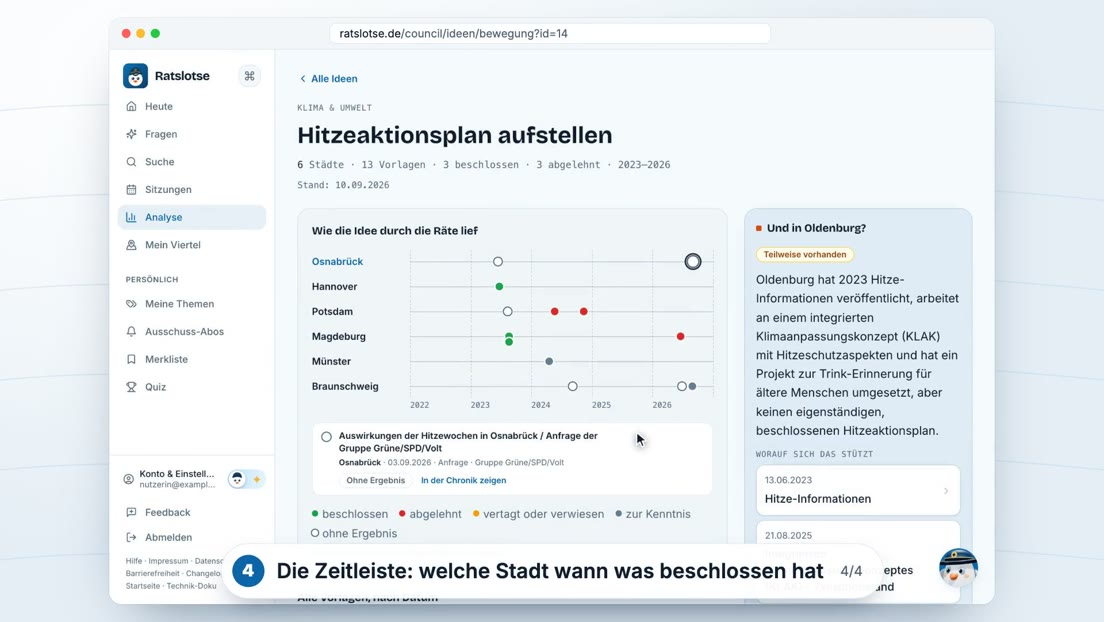
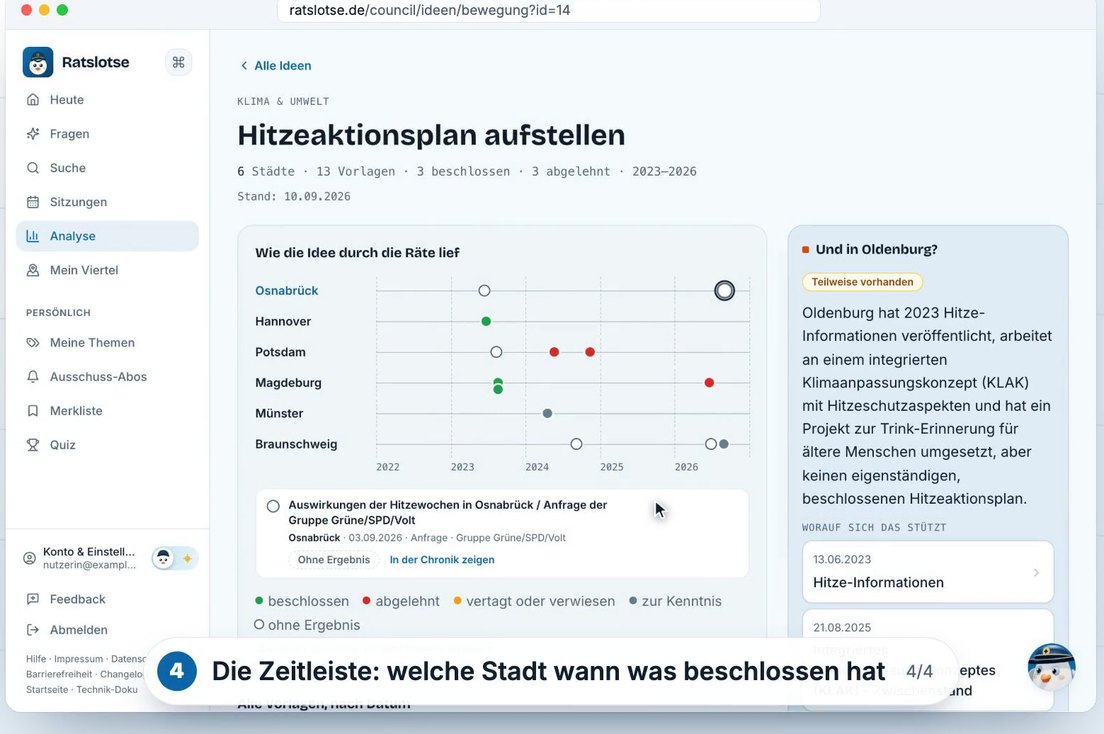
Neu bei Ratslotse: per Mail an alle, mit Abmeldelink; Mailbilder aufs Browserfenster zugeschnitten (#1792)

diff --git a/web/frontend/components/delivery-settings.tsx b/web/frontend/components/delivery-settings.tsx
@@ -8,6 +8,10 @@ import { useAuth } from "@/lib/auth";
 import { Button, Card, Switch, toast } from "@/components/ui";
 import type { DeliveryChannel, User } from "@/lib/types";
 
+/** Anlässe, die per Mail auch ohne gewählten Kanal kommen — Spiegel von
+ *  `kern.notify.IMMER_PER_MAIL`. */
+const IMMER_PER_MAIL = ["n7_news"];
+
 /** Ein Anlass aus 30a/B — was das Backend über sich selbst erzählt.
  *  `parent`: Unter-Option, die nur wirkt, solange der Eltern-Anlass an ist —
  *  sie wird eingerückt und ist ohne Elternteil nicht bedienbar. */
@@ -174,9 +178,9 @@ export function DeliverySettings() {
           Hälfte dieser Auskunft, der Zusatz an der Überschrift die hörbare.
           Wer den Block ausblendet, nimmt Screenreader-Nutzenden beides. */}
       {prefsQuery.data && (
-        <div className={`mt-6 border-t border-border pt-5 ${alleAus ? "opacity-45" : ""}`}>
-          <p className="text-[11px] font-bold uppercase tracking-wider text-muted-foreground">
-            Wofür {alleAus && <span className="font-medium normal-case tracking-normal">— erst wieder, wenn ein Kanal an ist</span>}
+        <div className="mt-6 border-t border-border pt-5">
+          <p className={`text-[11px] font-bold uppercase tracking-wider text-muted-foreground ${alleAus ? "opacity-45" : ""}`}>
+            Wofür {alleAus && <span className="font-medium normal-case tracking-normal">— erst wieder, wenn ein Kanal an ist (bis auf „Neu bei Ratslotse“)</span>}
           </p>
           <div className="mt-3 space-y-3">
             {prefsQuery.data.kinds.map((k) => {
@@ -185,13 +189,19 @@ export function DeliverySettings() {
               // das Backend würde sie ohnehin nicht zustellen.
               const elternAn = !k.parent
                 || (prefsQuery.data?.kinds.find((p) => p.key === k.parent)?.enabled ?? true);
+              // Die Release-Ankündigung kommt per Mail auch ohne Kanal
+              // (kern/notify.py: IMMER_PER_MAIL) — ihr Schalter muss deshalb
+              // bedienbar bleiben, sonst gäbe es für genau diese Konten keinen
+              // Weg, sie abzubestellen. Die Fußzeile der Mail führt hierher.
+              const ohneKanal = IMMER_PER_MAIL.includes(k.key);
+              const wirkungslos = (alleAus && !ohneKanal) || !elternAn;
               return (
                 <div
                   key={k.key}
                   id={`anlass-${k.key}`}
                   className={`flex items-center justify-between gap-3 scroll-mt-24 rounded-lg transition-shadow ${
                     k.parent ? "ml-3 border-l-2 border-border pl-3" : ""
-                  } ${!elternAn ? "opacity-45" : ""} ${
+                  } ${wirkungslos ? "opacity-45" : ""} ${
                     flashZiel === k.key ? "ring-2 ring-primary bg-primary/[0.07]" : ""
                   }`}
                 >
@@ -202,7 +212,7 @@ export function DeliverySettings() {
                   <Switch
                     checked={k.enabled}
                     aria-label={k.label}
-                    disabled={alleAus || !elternAn || kindMutation.isPending}
+                    disabled={wirkungslos || kindMutation.isPending}
                     onCheckedChange={(v) => toggleKind(k.key, v)}
                   />
                 </div>

diff --git a/web/frontend/app/datenschutz/page.tsx b/web/frontend/app/datenschutz/page.tsx
@@ -86,7 +86,7 @@ export default function DatenschutzPage() {
             <ul className="list-disc space-y-1 pl-5">
               <li><strong>Hosting:</strong> Hetzner Online GmbH (Serverstandort EU). Betrieb der Server und Verarbeitung von Server-Logs.</li>
               <li><strong>KI-Verarbeitung (OpenRouter):</strong> „Frag den Rat"-Anfragen und Fragen an Lotti werden zur Beantwortung über den Vermittler OpenRouter (USA) an KI-Sprachmodelle übermittelt, die <strong>ausschließlich in Rechenzentren in der EU</strong> laufen, jeweils mit der Zusage, Anfragen nicht zu speichern („Zero Data Retention"). Die Antworten und die vorbereitende Auswertung deiner Frage (Suchbegriffe) erzeugen Modelle von OpenAI bei Microsoft Azure in der EU. Zur Qualitätssicherung prüft ein Modell von Anthropic bei Google Cloud bzw. Amazon Web Services in der EU außerdem eine zufällige Stichprobe von Lottis Antworten nachträglich — dafür gehen Frage, Antwort und der Seitenausschnitt noch einmal über OpenRouter. Dasselbe gilt für die Beschreibung, die Lotti zu einem neu angelegten Thema vorschlägt, und für die Prüfung, ob ein Thema zu allgemein ist. An Anbieter außerhalb der EU gehen diese Anfragen nicht; sollte das bei einer längeren Störung vorübergehend nötig werden, steht es hier. Ausgeschlossen sind in jedem Fall Anbieter, die Anfragen zum Training verwenden, und Anbieter mit Sitz in China. Gespeichert wird bei uns das Urteil mit der Seite, auf der gefragt wurde; Frage und Antwort samt Konto-Zuordnung nur, wenn du das Speichern deiner Gespräche erlaubt hast, und sie werden mit deinem Konto gelöscht. <strong>Bitte gib keine personenbezogenen oder sensiblen Daten in die Fragen ein.</strong></li>
-              <li><strong>Resend:</strong> Versand von Benachrichtigungs-E-Mails (nur, wenn du E-Mail als Kanal wählst).</li>
+              <li><strong>Resend:</strong> Versand von Benachrichtigungs-E-Mails (wenn du E-Mail als Kanal wählst) und der seltenen Ankündigung „Neu bei Ratslotse“, die auch ohne gewählten Kanal per Mail kommt und sich in den Einstellungen einzeln abschalten lässt.</li>
               <li><strong>CARTO:</strong> Die Kartendarstellung lädt Kartenkacheln von CARTO; dabei wird deine IP-Adresse an CARTO übermittelt.</li>
               <li><strong>Apple / Google (Push):</strong> App-Benachrichtigungen werden über den Push-Dienst des Betriebssystems (APNs bzw. FCM) zugestellt — nur, wenn du Push als Kanal aktivierst.</li>
               <li><strong>Apple (Sign in with Apple):</strong> Nutzt du die Anmeldung mit Apple, wickelt Apple den Anmeldevorgang ab (Apple Distribution International Ltd., Irland); wir erhalten dabei nur die oben genannte Kennung und E-Mail-Adresse. Rechtsgrundlage ist die Vertragserfüllung (Art. 6 Abs. 1 lit. b DSGVO).</li>

diff --git a/kern/notify.py b/kern/notify.py
@@ -156,7 +156,8 @@ NOTIFY_LABELS: dict[str, tuple[str, str]] = {
     N6_WOCHE: ("Wochenüberblick",
                "Sonntag 18 Uhr, alles in einer Nachricht"),
     N7_NEWS: ("Neu bei Ratslotse",
-              "Was eine neue Version bringt — ein paar Mal im Jahr"),
+              "Was eine neue Version bringt — ein paar Mal im Jahr, per Mail auch dann, "
+              "wenn die übrigen Benachrichtigungen aus sind"),
 }
 
 
@@ -170,8 +171,24 @@ NOTIFY_PARENT: dict[str, str] = {
 
 
 #: Zustellweg „gar nicht". Wer das wählt, hört von Ratslotse nichts mehr —
-#: keine Meldung, kein Bündel, keine Erinnerung.
+#: keine Meldung, kein Bündel, keine Erinnerung. Ausnahme: die Release-
+#: Ankündigung (``IMMER_PER_MAIL``).
 KANAL_AUS = "off"
+
+#: Anlässe, die per Mail kommen, egal welchen Zustellweg das Konto gewählt hat
+#: — abschaltbar nur einzeln (der Schalter bleibt in den Einstellungen dafür
+#: bedienbar). Tims Entscheidung 08.11.2026: Die Ankündigung einer neuen
+#: Version kommt ein paar Mal im Jahr, und genau die, die sonst nichts
+#: bekommen, sollen von ihr hören. Ihre Fußzeile sagt das und verlinkt den
+#: Schalter (``kern.digest_email``).
+IMMER_PER_MAIL = (N7_NEWS,)
+
+
+def kanal_fuer(kanal: str | None, art: str | None) -> str | None:
+    """Der Zustellweg für diesen Anlass: bei ``IMMER_PER_MAIL`` mit Mail."""
+    if art not in IMMER_PER_MAIL:
+        return kanal
+    return {KANAL_AUS: "email", "push": "both", None: "email", "": "email"}.get(kanal, kanal)
 
 
 def zustellung_aus(store, owner_id: int) -> bool:
@@ -205,7 +222,7 @@ def gewuenscht(store, owner_id: int, art: str) -> bool:
     zählten gegen die Tagesgrenze. Wer sie später wieder anschaltet, bekäme
     dann eine Nachlieferung aus der Zeit, in der er ausdrücklich nichts wollte.
     """
-    if zustellung_aus(store, owner_id):
+    if zustellung_aus(store, owner_id) and art not in IMMER_PER_MAIL:
         return False
     prefs = store.get_notify_prefs(owner_id)
     vorgaben = vorgaben_fuer(store, owner_id)
@@ -373,11 +390,11 @@ def _zustellen_fuer(store, owner_id: int, heute: str, jetzt_iso: str) -> int:
     # werden verworfen statt dreimal vergeblich verschickt — sonst lägen sie
     # noch da, wenn jemand kurz darauf wieder einschaltet.
     if owner.get("delivery_channel") == KANAL_AUS:
-        weg = store.drop_pending_notifications(owner_id)
+        weg = store.drop_pending_notifications(owner_id, ausser=IMMER_PER_MAIL)
         if weg:
             logger.info("owner %s hat abgeschaltet — %d wartende Meldung(en) verworfen",
                         owner_id, weg)
-        return 0
+        # Was bleibt, ist nur noch Post aus IMMER_PER_MAIL — die geht weiter.
     # Reservieren statt bloß lesen: Ein zweiter, gleichzeitiger Lauf sieht die
     # Posten dann nicht mehr und verschickt sie nicht ein zweites Mal.
     token = uuid.uuid4().hex
@@ -404,7 +421,8 @@ def _zustellen_reserviert(store, owner: dict, owner_id: int, offen: list[dict],
         **nichts** rausgegangen. Früher wurde trotzdem ``sent_at`` gesetzt — ein
         Resend-Ausfall ließ Meldungen also lautlos für immer verschwinden.
         """
-        channels = deliver_message(owner, html, email_subject=title, push_url=url,
+        empfaenger = {**owner, "delivery_channel": kanal_fuer(owner.get("delivery_channel"), anlass)}
+        channels = deliver_message(empfaenger, html, email_subject=title, push_url=url,
                                   push_text=push_text, anlass=anlass, store=store)
         if not channels:
             store.bump_notification_attempts(posten_ids)

diff --git a/tests/test_releases.py b/tests/test_releases.py
@@ -16,7 +16,7 @@ from __future__ import annotations
 
 import re
 import sys
-from datetime import date, timedelta
+from datetime import UTC, date, datetime, timedelta
 from pathlib import Path
 
 import pytest
@@ -24,7 +24,7 @@ import pytest
 WURZEL = Path(__file__).resolve().parents[1]
 sys.path.insert(0, str(WURZEL))
 
-from kern import news, notify, releases  # noqa: E402
+from kern import digest_email, news, notify, releases  # noqa: E402
 from kern.store import Store  # noqa: E402
 
 
@@ -604,11 +604,36 @@ def test_ein_abgeschalteter_anlass_gilt_als_erledigt(store):
     assert news.recipients(store, RELEASE) == []
 
 
-def test_wer_nichts_hoeren_will_bekommt_auch_das_nicht(store):
+def test_die_ankuendigung_kommt_auch_bei_ausgeschalteter_zustellung_per_mail(store, monkeypatch):
+    """Tims Entscheidung 08.11.2026: ein paar Mal im Jahr, an alle — auch an
+    Konten mit Zustellung „aus“ oder nur Push. Abbestellen geht einzeln
+    (vorheriger Test), die Fußzeile sagt es und verlinkt den Schalter."""
+    raus: list[tuple[str | None, str]] = []
+    monkeypatch.setattr("kern.delivery.deliver_message",
+                        lambda o, html, **_: (raus.append((o.get("delivery_channel"), html)), ["email"])[1])
+    aus = _konto(store)
+    store.set_delivery_channel(aus, notify.KANAL_AUS)
+    nur_push = _konto(store, "push@example.org")
+    store.set_delivery_channel(nur_push, "push")
+    assert news.announce(store, RELEASE)["queued"] == 2
+    notify.zustellen(store, jetzt=datetime(2026, 11, 9, 10, 0, tzinfo=UTC))
+    assert sorted(k for k, _ in raus) == ["both", "email"]
+
+
+def test_die_fusszeile_der_ankuendigung_fuehrt_zum_schalter():
+    html = digest_email.render_html_email("Neu", "<p>x</p>", anlass=notify.N7_NEWS)
+    assert "/account?zeig=n7_news" in html
+    assert "auch dann, wenn deine übrigen Benachrichtigungen aus sind" in html
+    # Andere Anlässe behalten ihre Fußzeile.
+    assert "/account?zeig=n7_news" not in digest_email.render_html_email(
+        "Tagesordnung", "<p>x</p>", anlass=notify.N1_TAGESORDNUNG)
+
+
+def test_andere_anlaesse_bleiben_bei_ausgeschalteter_zustellung_still(store):
     uid = _konto(store)
     store.set_delivery_channel(uid, notify.KANAL_AUS)
-    assert news.announce(store, RELEASE)["queued"] == 0
-    assert store.due_notifications(uid, "2999-01-01") == []
+    assert not notify.gewuenscht(store, uid, notify.N1_TAGESORDNUNG)
+    assert notify.gewuenscht(store, uid, notify.N7_NEWS)
 
 
 def test_ein_konto_juenger_als_das_release_wird_nicht_angeschrieben(store):

diff --git a/kern/digest_email.py b/kern/digest_email.py
@@ -327,7 +327,7 @@ def render_html_email(
         f"<div style='margin-top:{abstand}px;white-space:pre-wrap;font-size:15px;line-height:1.55'>"
         f"{body_html_or_text}</div>"
         "</div></div>"
-        f"{_fuss(fusszeile)}"
+        f"{_fuss(fusszeile if fusszeile is not None or anlass != 'n7_news' else _news_hinweis())}"
         "</div></div>"
     ), anlass, APP_BASE_URL)
 
@@ -349,6 +349,21 @@ def _fuss(fusszeile: str | None) -> str:
         "font-size:14px;font-weight:600'>Zu Ratslotse &rarr;</a>"
         f"{note}"
         "</div>"
+    )
+
+
+def _news_hinweis() -> str:
+    """Fußzeile der Release-Ankündigung. Sie kommt per Mail auch an Konten,
+    die Benachrichtigungen ausgeschaltet haben (``kern.notify.IMMER_PER_MAIL``)
+    — deshalb sagt sie das und führt direkt zum einen Schalter, der sie
+    abbestellt (``/account?zeig=n7_news``)."""
+    return (
+        "Du erhältst diese Mail, weil es bei Ratslotse etwas Neues gibt. Das kommt nur ein "
+        "paar Mal im Jahr, deshalb auch dann, wenn deine übrigen Benachrichtigungen aus sind. "
+        f"Wenn du auch diese seltenen Mails nicht möchtest, schalte "
+        f"<a href='{APP_BASE_URL}/account?zeig=n7_news' "
+        f"style='color:{_LEISE};text-decoration:underline'>„Neu bei Ratslotse“</a> "
+        "in deinen Einstellungen ab."
     )
 
 

diff --git a/kern/store.py b/kern/store.py
@@ -3353,7 +3353,7 @@ class Store:
                 tuple(ids),
             )
 
-    def drop_pending_notifications(self, owner_id: int) -> int:
+    def drop_pending_notifications(self, owner_id: int, ausser: tuple[str, ...] = ()) -> int:
         """Alles Unzugestellte dieses Kontos verwerfen. Gibt die Anzahl zurück.
 
         Gedacht für den Moment, in dem jemand Benachrichtigungen abschaltet:
@@ -3363,11 +3363,16 @@ class Store:
 
         Bereits Zugestelltes (``sent_at`` gesetzt) bleibt unangetastet — das ist
         die Historie, keine offene Post.
+
+        ``ausser``: Anlässe, die trotzdem bleiben (die Release-Ankündigung
+        geht auch bei ausgeschalteter Zustellung per Mail raus).
         """
+        platz = ",".join("?" * len(ausser))
+        bedingung = f" AND kind NOT IN ({platz})" if ausser else ""
         with self._conn:
             cur = self._conn.execute(
-                "DELETE FROM notification_queue WHERE owner_id = ? AND sent_at IS NULL",
-                (owner_id,))
+                "DELETE FROM notification_queue WHERE owner_id = ? AND sent_at IS NULL"
+                + bedingung, (owner_id, *ausser))
         return cur.rowcount or 0
 
     def undeliverable_notifications(self, limit: int = 50) -> list[dict]:

diff --git a/changelog.d/release-mail-an-alle.md b/changelog.d/release-mail-an-alle.md
@@ -1,0 +1,5 @@
+---
+kategorie: geaendert
+---
+
+**„Neu bei Ratslotse“ kommt an alle.** Die Ankündigung einer neuen Version, ein paar Mal im Jahr, kommt per Mail auch dann, wenn die übrigen Benachrichtigungen aus sind. Wer sie nicht möchte, schaltet „Neu bei Ratslotse“ in den Einstellungen ab; der Link dazu steht in jeder dieser Mails. Die Bilder in der Mail zeigen außerdem nur noch das Browserfenster und sind dadurch größer.
